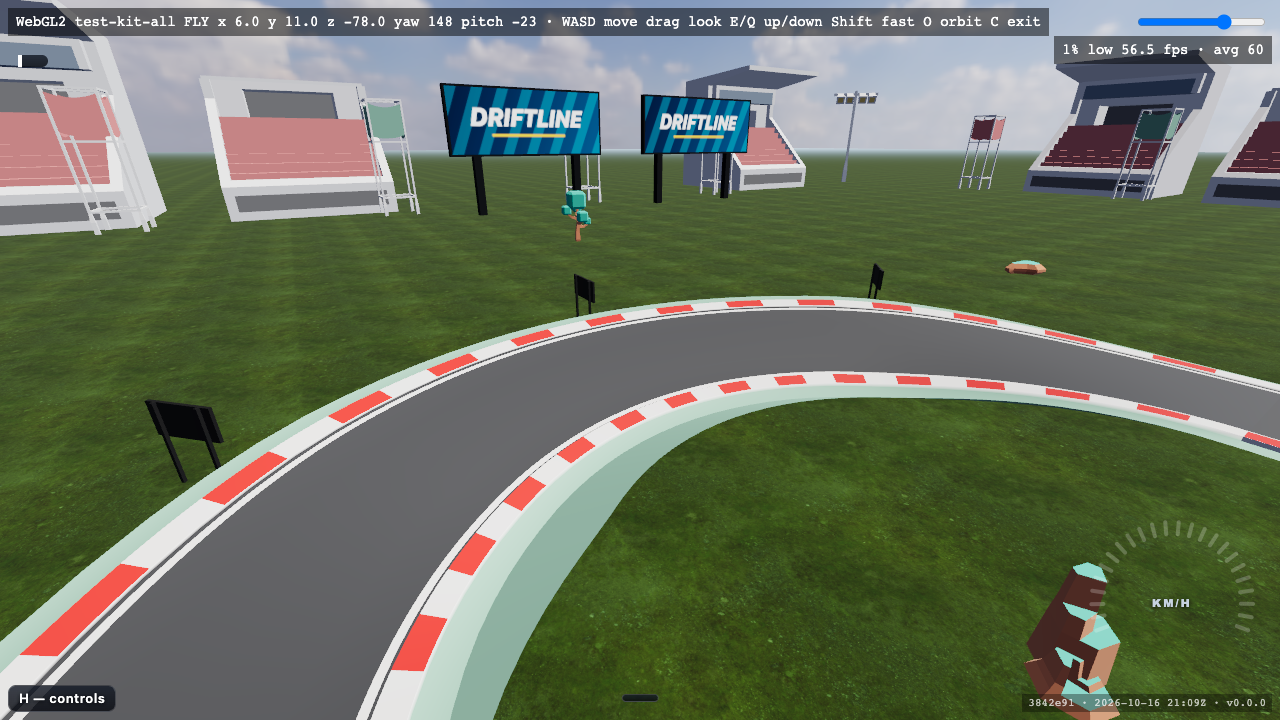
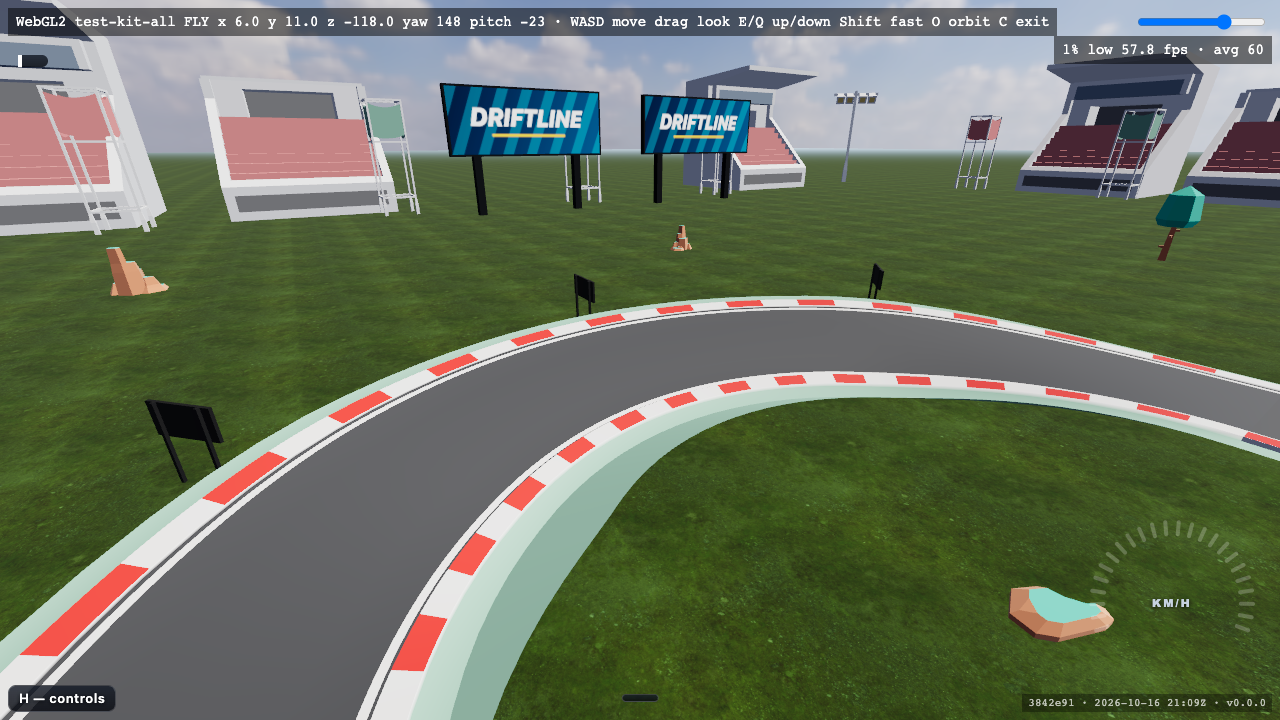
gap-jump lands tangent to the arc (the #71 jump rule)
- 5.7° lip, 10 m gap (-1.8 m), 80 m landing slope (-7.2 m): crossover's
  reshaped jump on the grid, 10 cells, two levels down
- leap and test-kit-all re-closed; leap medals from its new 73 s autopilot lap
- jump-landing.test.ts covers leap at autopilot pace and flat out
  (14.2° / 12.5° off, limit 15°); harness loop 60 s -> 90 s for leap's lap
- docs: gap-jump row, bank-180 spawn, refreshed shots

diff --git a/src/race/jump-landing.test.ts b/src/race/jump-landing.test.ts
@@ -34,7 +34,7 @@ function longestJump(track: Track, samples: Sample[]): Landing {
   let takeoffSpeed = 0
   let best: Landing | null = null
   let open: (Landing & { speed: number; tick: number }) | null = null
-  for (let i = 0; i < COUNTDOWN_TICKS + 60 * TICK_HZ && loop.phase !== 'finished'; i++) {
+  for (let i = 0; i < COUNTDOWN_TICKS + 90 * TICK_HZ && loop.phase !== 'finished'; i++) {
     const input = loop.phase === 'racing' ? drive(sim.state) : NO_INPUT
     advanceRace(loop, sim, 1 / TICK_HZ, open ? { ...input, throttle: 1, brake: 0 } : input)
     const s = sim.state
@@ -72,6 +72,9 @@ const ramp = loadTrack('test-ramp')
 const crossover = loadTrack('crossover')
 const tower = loadTrack('tower')
 const crossGap = firstOf(crossover, 'gap')
+// The kit's gap-jump piece (src/track/kit.ts): A05 leap jumps it from a 12 m deck onto a 4 m one.
+const leap = loadTrack('leap')
+const leapGap = firstOf(leap, 'gap')
 const towerDrop = firstOf(tower, 'drop')
 
 const CASES = [
@@ -81,6 +84,8 @@ const CASES = [
   { name: 'crossover gap flat out down the long straight', track: crossover, samples: flatOut(crossover, crossGap - 2, crossGap + 1), minAir: 1, minSpeed: 35 },
   // tower's drop is a crest at the end of a long straight: flat out it is a jump too.
   { name: 'tower drop flat out', track: tower, samples: flatOut(tower, towerDrop - 1, towerDrop), minAir: 0.8, minSpeed: 35 },
+  { name: 'leap gap-jump at autopilot pace', track: leap, samples: centreline(leap), minAir: 0.5, minSpeed: 14 },
+  { name: 'leap gap-jump flat out off the deck', track: leap, samples: flatOut(leap, leapGap - 3, leapGap + 1), minAir: 1, minSpeed: 30 },
 ]
 
 describe.each(CASES)('jump landing: $name', ({ track, samples, minAir, minSpeed }) => {

diff --git a/src/track/kit.ts b/src/track/kit.ts
@@ -121,18 +121,19 @@ export const KIT_PIECES: readonly PieceDef[] = [
   },
   {
     // Kicker, gap, landing: crossover's jump on the grid. Both connectors are road; the air is
-    // inside the piece. The landing slope lies under the flight arc from ~16 m/s (the autopilot's
-    // jump speed) to flat out, so slow and fast cars both touch down on the downslope.
+    // inside the piece. A 5.7° lip, then a landing slope that continues the line from the lip and
+    // runs long enough for a flat-out car, so it lands tangent to the arc at any speed (AGENTS.md).
     id: 'gap-jump',
     family: 'slope',
     surfaces: ROAD_ONLY,
     turns: false,
-    out: road(6, 0, -2, 0),
+    out: road(10, 0, -2, 0),
     expand: () =>
       plain([
         { type: 'ramp', length: CELL, rise: 1 },
-        { type: 'gap', length: 1.4 * CELL, fall: LEVEL },
-        { type: 'drop', length: 3.6 * CELL, fall: 2 * LEVEL - 3 },
+        { type: 'gap', length: CELL, fall: 1.8 },
+        // Net two levels down: +1 lip, −1.8 gap, −7.2 landing.
+        { type: 'drop', length: 8 * CELL, fall: 7.2 },
       ]),
   },
   flat('turbo', 'effect', { zones: [{ kind: 'turbo', segment: 0, from: 0.25, to: 0.75 }] }),

diff --git a/docs/track-kit.md b/docs/track-kit.md
@@ -50,8 +50,8 @@ Screenshots: live site, `?track=test-kit-all&cam=fly&freeze=1&renderer=webgl2` p
 | `slope-down` | slope | (2, 0, −1, 0) | `drop` 20 m, −4 m | road, dirt, ice, grass | One level down; here in dirt. | [`x=26&y=13&z=152&yaw=147.5&pitch=-22.9`](https://bborbe.github.io/driftline/?track=test-kit-all&x=26&y=13&z=152&yaw=147.5&pitch=-22.9&cam=fly&freeze=1&renderer=webgl2) | ![slope-down](track-kit/slope-down.png) |
 | `bump` | slope | (2, 0, 0, 0) | `ramp` 10 m +1 m, `drop` 10 m −1 m | road, dirt, ice, grass | Unloads the suspension at speed. | [`x=14&y=12&z=48&yaw=-32.5&pitch=-22.9`](https://bborbe.github.io/driftline/?track=test-kit-all&x=14&y=12&z=48&yaw=-32.5&pitch=-22.9&cam=fly&freeze=1&renderer=webgl2) | ![bump](track-kit/bump.png) |
 | `bank-90` | bank | (2, ±2, 0, ±1) | `banked` 90°, r 20 m, 0.26 rad | road | Bank eases in and out inside the piece, so both connectors are flat. | [`x=12.1&y=15&z=140.1&yaw=57.5&pitch=-22.9`](https://bborbe.github.io/driftline/?track=test-kit-all&x=12.1&y=15&z=140.1&yaw=57.5&pitch=-22.9&cam=fly&freeze=1&renderer=webgl2) | ![bank-90](track-kit/bank-90.png) |
-| `bank-180` | bank | (0, ±4, 0, ±2) | `banked` 180°, r 20 m, 0.26 rad | road | Closes the lap back onto the start straight. | [`x=6&y=11&z=-78&yaw=147.5&pitch=-22.9`](https://bborbe.github.io/driftline/?track=test-kit-all&x=6&y=11&z=-78&yaw=147.5&pitch=-22.9&cam=fly&freeze=1&renderer=webgl2) | ![bank-180](track-kit/bank-180.png) |
-| `gap-jump` | slope | (6, 0, −2, 0) | `ramp` 10 m +1 m, `gap` 14 m −4 m, `drop` 36 m −5 m | road | crossover's jump on the grid: kicker, open air, landing slope under the flight arc; flat out it still lands on the slope. Two levels down. | [`x=85&y=12&z=-15&yaw=-90&pitch=-12`](https://bborbe.github.io/driftline/?track=test-kit-all&x=85&y=12&z=-15&yaw=-90&pitch=-12&cam=fly&freeze=1&renderer=webgl2) | ![gap-jump](track-kit/gap-jump.png) |
+| `bank-180` | bank | (0, ±4, 0, ±2) | `banked` 180°, r 20 m, 0.26 rad | road | Closes the lap back onto the start straight. | [`x=6&y=11&z=-118&yaw=147.5&pitch=-22.9`](https://bborbe.github.io/driftline/?track=test-kit-all&x=6&y=11&z=-118&yaw=147.5&pitch=-22.9&cam=fly&freeze=1&renderer=webgl2) | ![bank-180](track-kit/bank-180.png) |
+| `gap-jump` | slope | (10, 0, −2, 0) | `ramp` 10 m +1 m, `gap` 10 m −1.8 m, `drop` 80 m −7.2 m | road | crossover's jump on the grid: a 5.7° lip, open air, then a landing slope that continues the line from the lip, long enough for a flat-out flight (`jump-landing.test.ts` on leap). Two levels down. | [`x=72&y=18&z=-30&yaw=-95&pitch=-18`](https://bborbe.github.io/driftline/?track=test-kit-all&x=72&y=18&z=-30&yaw=-95&pitch=-18&cam=fly&freeze=1&renderer=webgl2) | ![gap-jump](track-kit/gap-jump.png) |
 | `turbo` | effect | (1, 0, 0, 0) | `straight` 10 m + `turbo` zone 0.25–0.75 | road | Yellow pad; direction from `padForward()`. | [`x=14&y=11&z=3&yaw=-32.5&pitch=-22.9`](https://bborbe.github.io/driftline/?track=test-kit-all&x=14&y=11&z=3&yaw=-32.5&pitch=-22.9&cam=fly&freeze=1&renderer=webgl2) | ![turbo](track-kit/turbo.png) |
 | `turbo-red` | effect | (1, 0, 0, 0) | `straight` 10 m + `turbo-red` zone 0.25–0.75 | road | Red pad: stronger boost. | [`x=14&y=11&z=13&yaw=-32.5&pitch=-22.9`](https://bborbe.github.io/driftline/?track=test-kit-all&x=14&y=11&z=13&yaw=-32.5&pitch=-22.9&cam=fly&freeze=1&renderer=webgl2) | ![turbo-red](track-kit/turbo-red.png) |
 | `checkpoint` | gate | (1, 0, 0, 0) | `straight` 10 m + `checkpoint` gate | road | Solid arch pillars; counts only under the arch. | [`x=14&y=11&z=23&yaw=-32.5&pitch=-22.9`](https://bborbe.github.io/driftline/?track=test-kit-all&x=14&y=11&z=23&yaw=-32.5&pitch=-22.9&cam=fly&freeze=1&renderer=webgl2) | ![checkpoint](track-kit/checkpoint.png) |

diff --git a/AGENTS.md b/AGENTS.md
@@ -52,7 +52,7 @@ The why for each rule is in the PR it cites and in the operator's *3D Browser Ga
 - **Tests drive the real path:** no hand-set flags the game never produces; go through `advanceRace` / the autopilot lap (#12, #17, #22).
 - **Records are keyed by layout:** `driftline-best-<track>-<layoutId>[-lapsN]` (test1, formerly lap1, keeps its legacy key; test2 keeps lap2's — `recordName` in `src/track/catalogue.ts`); a layout or lap-count change gets a new key (#30, #46).
 - **Audio is synthesized:** no audio files; every loop fades to silence on finish (#50).
-- **Jumps land tangent to the arc:** a launch lip of ≤ 6°, then a landing slope that continues the line from the lip (gap fall ≈ gap length · slope), long enough for a flat-out car; the touchdown angle is then nearly speed-independent. `src/race/jump-landing.test.ts` pins ≤ 15° off the surface and ≤ 10% speed loss at autopilot pace and flat out on test-ramp, crossover and tower.
+- **Jumps land tangent to the arc:** a launch lip of ≤ 6°, then a landing slope that continues the line from the lip (gap fall ≈ gap length · slope), long enough for a flat-out car; the touchdown angle is then nearly speed-independent. `src/race/jump-landing.test.ts` pins ≤ 15° off the surface and ≤ 10% speed loss at autopilot pace and flat out on test-ramp, crossover, tower and leap (the kit's `gap-jump` piece).
 - **Assets are CC0 / CC-BY / MIT** and listed in `assets/LICENSES/` (#3).
 
 ## Workflow
